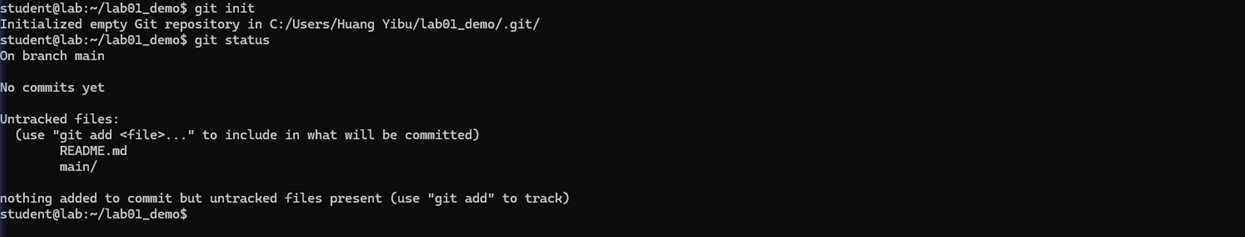
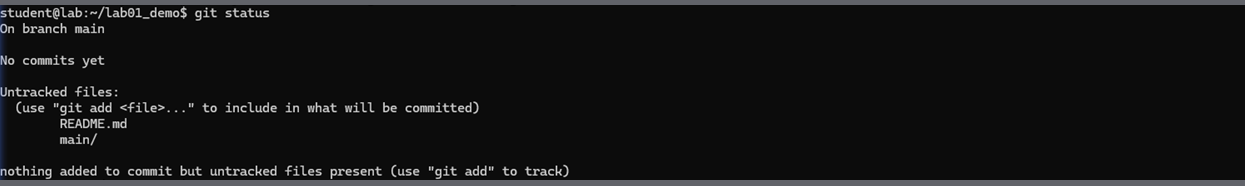
Update lab01 README with step-by-step screenshots

diff --git a/lab01/README.md b/lab01/README.md
@@ -17,40 +17,83 @@
 - `main/source.py` - точка входа программы;
 - `main/utils.py` - вспомогательные функции.
 
-## Выполненные команды
+## Ход выполнения
+
+Все шаги повторены на чистой папке `lab01_demo` и сняты на скриншоты. Скриншоты лежат в папке [`screenshots`](screenshots).
+
+### Шаг 1. Инициализация репозитория
 
 ```bash
 git init
-git config --global user.name "Хуан Ибу"
-git config --global user.email "259972030+carroto3@users.noreply.github.com"
-git status
-git add .
-git commit -m "Add lab01"
-git log --oneline
-git remote add origin git@github.com:carroto3/tp.git
-git remote -v
-git push -u origin main
 ```
 
-## Скриншоты выполнения
-
-Прогон команд повторён в чистой папке `lab01_demo`. `push` выполнен в ветку `lab01-demo`, потому что ветка `main` в репозитории уже занята готовыми лабораторными.
+Создаёт в текущей папке пустой локальный репозиторий: появляется скрытая директория `.git`, где Git хранит объекты, ветки и настройки.
 
 ![git init](screenshots/01_git_init.png)
 
-`git init` создаёт пустой локальный репозиторий в текущей папке.
+### Шаг 2. Проверка состояния
+
+```bash
+git status
+```
+
+Показывает, что коммитов ещё нет, а файлы `README.md` и `main/` не отслеживаются. Git видит их, но в историю они пока не попадут.
 
 ![git status](screenshots/02_git_status.png)
 
-`git status` показывает неотслеживаемые файлы `README.md` и `main/`.
+### Шаг 3. Добавление файлов в индекс
 
-![git add и git commit](screenshots/03_git_add_commit.png)
+```bash
+git add .
+git status
+```
 
-`git add .` переносит файлы в индекс, `git commit -m "Add lab01"` фиксирует коммит из трёх файлов.
+`git add .` переносит все файлы из рабочей директории в индекс (staging area). Повторный `git status` подтверждает, что три файла готовы к коммиту. Предупреждения про LF/CRLF - это нормальная реакция Windows-версии Git на окончания строк, на результат они не влияют.
 
-![git log, git remote и git push](screenshots/04_git_log_remote_push.png)
+![git add](screenshots/03_git_add.png)
 
-`git log --oneline` показывает историю, `git remote add origin` подключает удалённый репозиторий, `git push` отправляет коммит на GitHub.
+### Шаг 4. Первый коммит
+
+```bash
+git commit -m "Add lab01"
+```
+
+Фиксирует содержимое индекса как новый коммит `956497a` с сообщением «Add lab01». В выводе видно, что изменилось три файла и добавлено 59 строк.
+
+![git commit](screenshots/04_git_commit.png)
+
+### Шаг 5. История коммитов
+
+```bash
+git log --oneline
+```
+
+Показывает компактный список коммитов: `956497a (HEAD -> main) Add lab01`. Сейчас коммит один, и на него указывает `HEAD` ветки `main`.
+
+![git log](screenshots/05_git_log.png)
+
+### Шаг 6. Подключение удалённого репозитория
+
+```bash
+git remote add origin git@github.com:carroto3/tp.git
+git remote -v
+```
+
+`git remote add` привязывает локальный репозиторий к удалённому под именем `origin`, `git remote -v` показывает адрес для чтения (fetch) и записи (push).
+
+![git remote](screenshots/06_git_remote.png)
+
+### Шаг 7. Отправка коммита на GitHub
+
+```bash
+git push origin main:lab01-demo
+```
+
+Отправляет локальный коммит в удалённый репозиторий и создаёт там ветку `lab01-demo`. В выводе есть строка `* [new branch]` - значит, ветка появилась на GitHub, и GitHub сразу предложил ссылку на создание pull request.
+
+Ветка `lab01-demo` использована только для демонстрации команды: в `main` этого репозитория уже лежат готовые лабораторные, и перезаписывать её историей демонстрационного проекта нельзя. После снятия скриншота ветка удалена.
+
+![git push](screenshots/07_git_push.png)
 
 ## Результат
 
